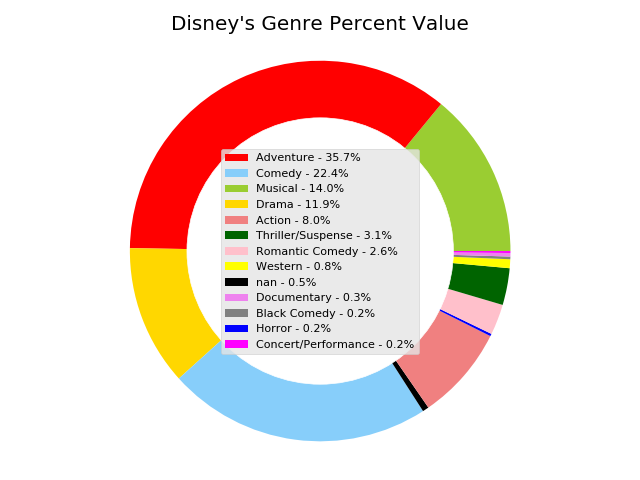
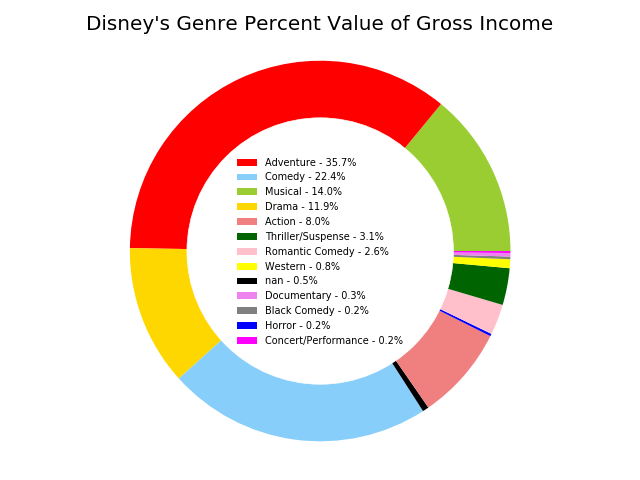
best rating

Changed region(s): [[0.3438, 0.3125, 0.6562, 0.75], [0.125, 0.0312, 0.875, 0.0625], [0.625, 0.3125, 0.6562, 0.3438]]

diff --git a/disney_movies_gross.py b/disney_movies_gross.py
@@ -3,11 +3,8 @@ labels: 'movie_title', 'release_date', 'genre', 'MPAA_rating', 'total_gross',
         'inflation_adjusted_gross'
 """
 
-from collections import OrderedDict
 import os
-import numpy as np
 import matplotlib.pyplot as plt
-import numpy as np
 import pandas as pd
 
 plt.style.use('ggplot')
@@ -51,61 +48,76 @@ class Disney_Movies_Gross:
         plt.savefig(f'{self.path}/{self.plot_loc}/top5_by_total_gross.png')
 
     def best_genre(self):
-        """Method to find out Disney's best selling genre of film"""
+        """Method to find out Disney's best selling genre of film. The value of
+        a genre is determined by the mean inflation_adjusted_gross of each
+        genre."""
 
-        genres = {}
-        total = 0
-        for row in self.df.iterrows():
-            try:
-                genre = genres[row[1]['genre']]
-                genres.update(
-                    {row[1]['genre']: (genre[0]+1, genre[1]+row[1]['inflation_adjusted_gross'])}
-                )
-                total += row[1]['inflation_adjusted_gross']
-            except KeyError:
-                genres.update(
-                    {row[1]['genre']: (1, row[1]['inflation_adjusted_gross'])}
-                )
-                total += row[1]['inflation_adjusted_gross']
-
-        # instead of just finding the most money a genre has made, I will compare
-        # the value of the genre based upon its gross earnings to how many titles
-        # in that genre were produced (mean per title in genre)
-        for key in genres:
-            max_value = ('', 0)
-            value = (key, genres[key][1] / genres[key][0])
-            if value[1] > max_value[1]:
-                max_value = value
+        genres, total, labels, values = self.iter_data('genre', 'inflation_adjusted_gross')
 
         # plotting data
-        labels = [f'{key} - {round(genres[key][1] / total * 100, 1)}%' for key in genres]
-        values = [genres[key][1] for key in genres]
-            
         colors = ['yellowgreen','red','gold','lightskyblue','black','lightcoral',
                   'blue','pink', 'darkgreen','yellow','grey','violet','magenta',
                   'cyan','grey']
+        title = 'Disney\'s Genre Percent Value of Gross Income'
+        saveas = 'genre_percent_value'
+
+        self.pie_plot(values, labels, colors, title, saveas)
+
+    def best_MPAA_rating(self):
+        """Method for finding the best selling set of titles with a certain
+        rating. Just like best_genre, we will get the mean of a title in each
+        rating so we can see the real value of each rating"""
+
+        rating, total, labels, values = self.iter_data('MPAA_rating', 'inflation_adjusted_gross')
+        
+        # plotting data
+        colors = ['yellowgreen','red','gold','lightskyblue','black','lightcoral']
+        title = 'Disney\'s MPAA Rating Percent Value of Gross Income'
+        saveas = 'rating_percent_value'
+
+        self.pie_plot(values, labels, colors, title, saveas)
+
+    def iter_data(self, key, value):
+        total = 0
+        data = {}
+        for row in self.df.iterrows():
+            try:
+                datum = data[row[1][key]]
+                data.update(
+                    {row[1][key]: (datum[0]+1, datum[1]+row[1][value])}
+                )
+                total += row[1][value]
+            except KeyError:
+                data.update(
+                    {row[1][key]: (1, row[1][value])}
+                )
+                total += row[1][value]
+        
+        labels = [f'{k} - {round(data[k][1] / total * 100, 1)}%' for k in data]
+        values = [data[k][1] for k in data]
+
+        return (data, total, labels, values)
+
+    def pie_plot(self, values, labels, colors, title, saveas):
         circle = plt.Circle((0, 0), 0.7, color='white')
         wedges, texts = plt.pie(values, colors=colors)
         p = plt.gcf()
         p.gca().add_artist(circle)
 
         wedges, labels = self.sort_labels(wedges, labels, values)
-        plt.legend(wedges, labels, loc='center', fontsize=8)
+        plt.legend(wedges, labels, loc='center', frameon=False, fontsize=7)
 
-        plt.title('Disney\'s Genre Percent Value')
+        plt.title('Disney\'s Genre Percent Value of Gross Income')
         plt.axis('equal')
         plt.tight_layout()
 
-        plt.savefig(f'{self.path}/{self.plot_loc}/genre_percent_value.png')
-
-
-    def best_MPAA_rating(self):
-        pass
+        plt.savefig(f'{self.path}/{self.plot_loc}/{saveas}.png')
 
     @staticmethod
     def sort_labels(classes, labels, y):
         """Method of sorting lables for legend. Algorithm from Saullo G. P. Castro
         on StackOverflow."""
+
         classes, labels, _ = zip(*sorted(
             zip(classes, labels, y),
             key = lambda x: x[2],
@@ -113,6 +125,10 @@ class Disney_Movies_Gross:
         ))
 
         return (classes, labels)
+    
+    @staticmethod
+    def stats():
+        pass
 
 
 if __name__ == '__main__':
@@ -121,5 +137,6 @@ if __name__ == '__main__':
     disney.plot_top5()
     plt.clf() # clear top5 plot for best_genre plot
     disney.best_genre()
+    disney.best_MPAA_rating()
 
-    # print(disney.df['genre'].unique())
+    # print(disney.df['MPAA_rating'].unique())
